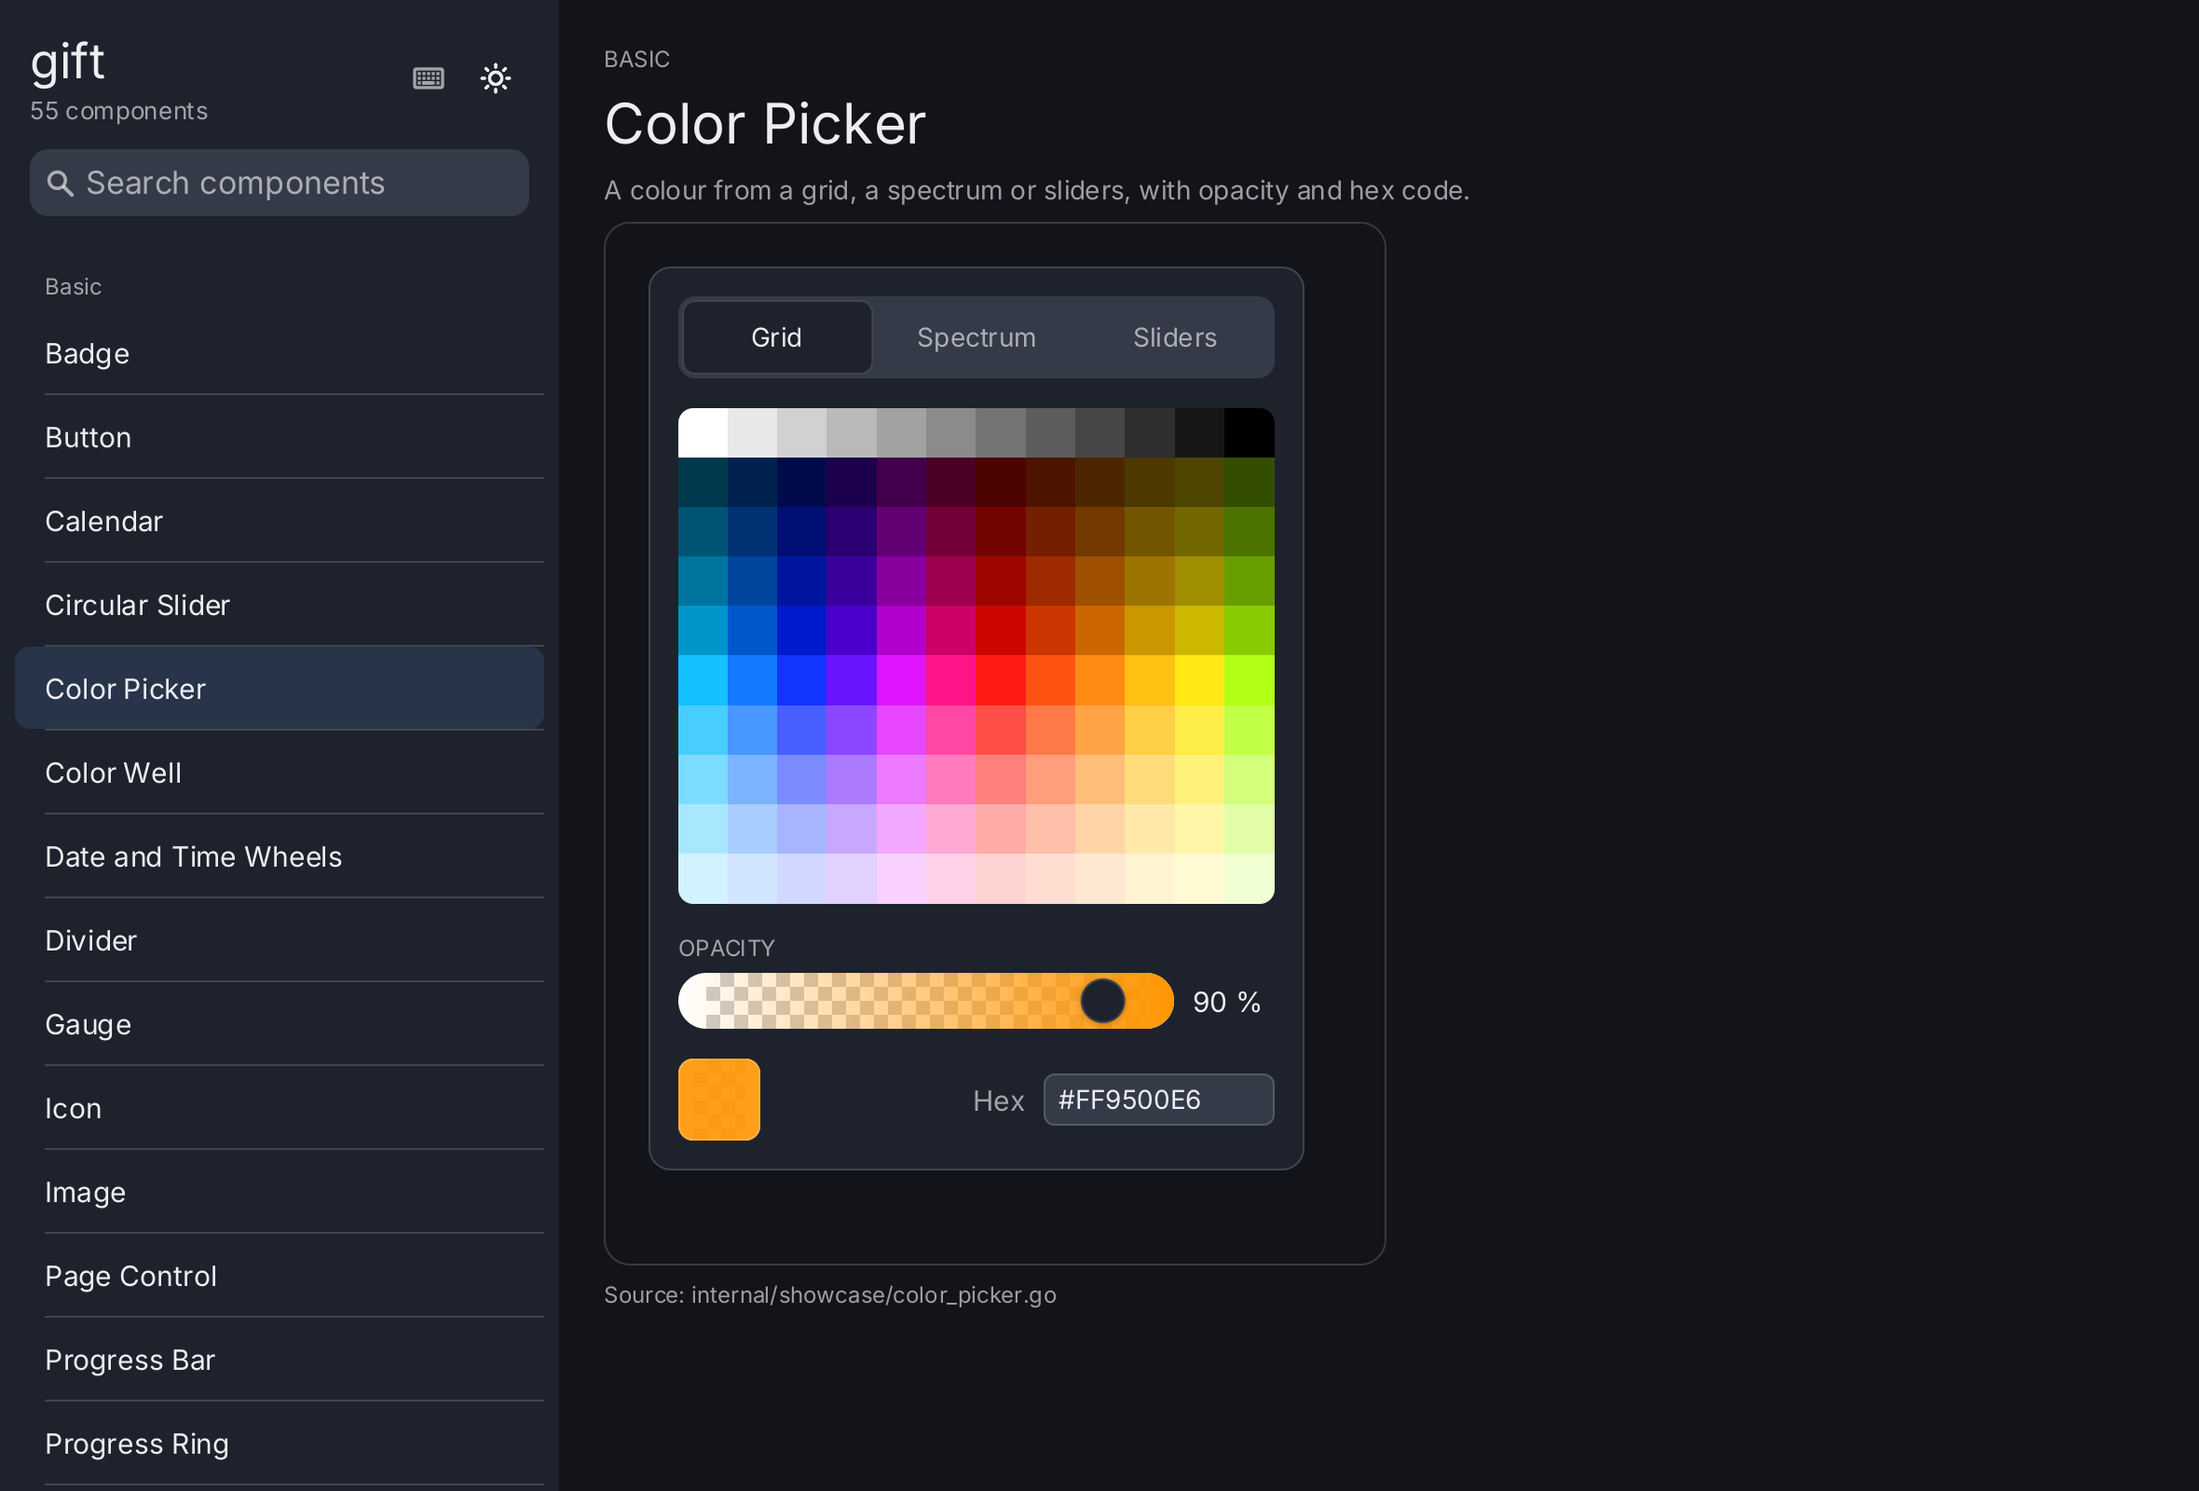
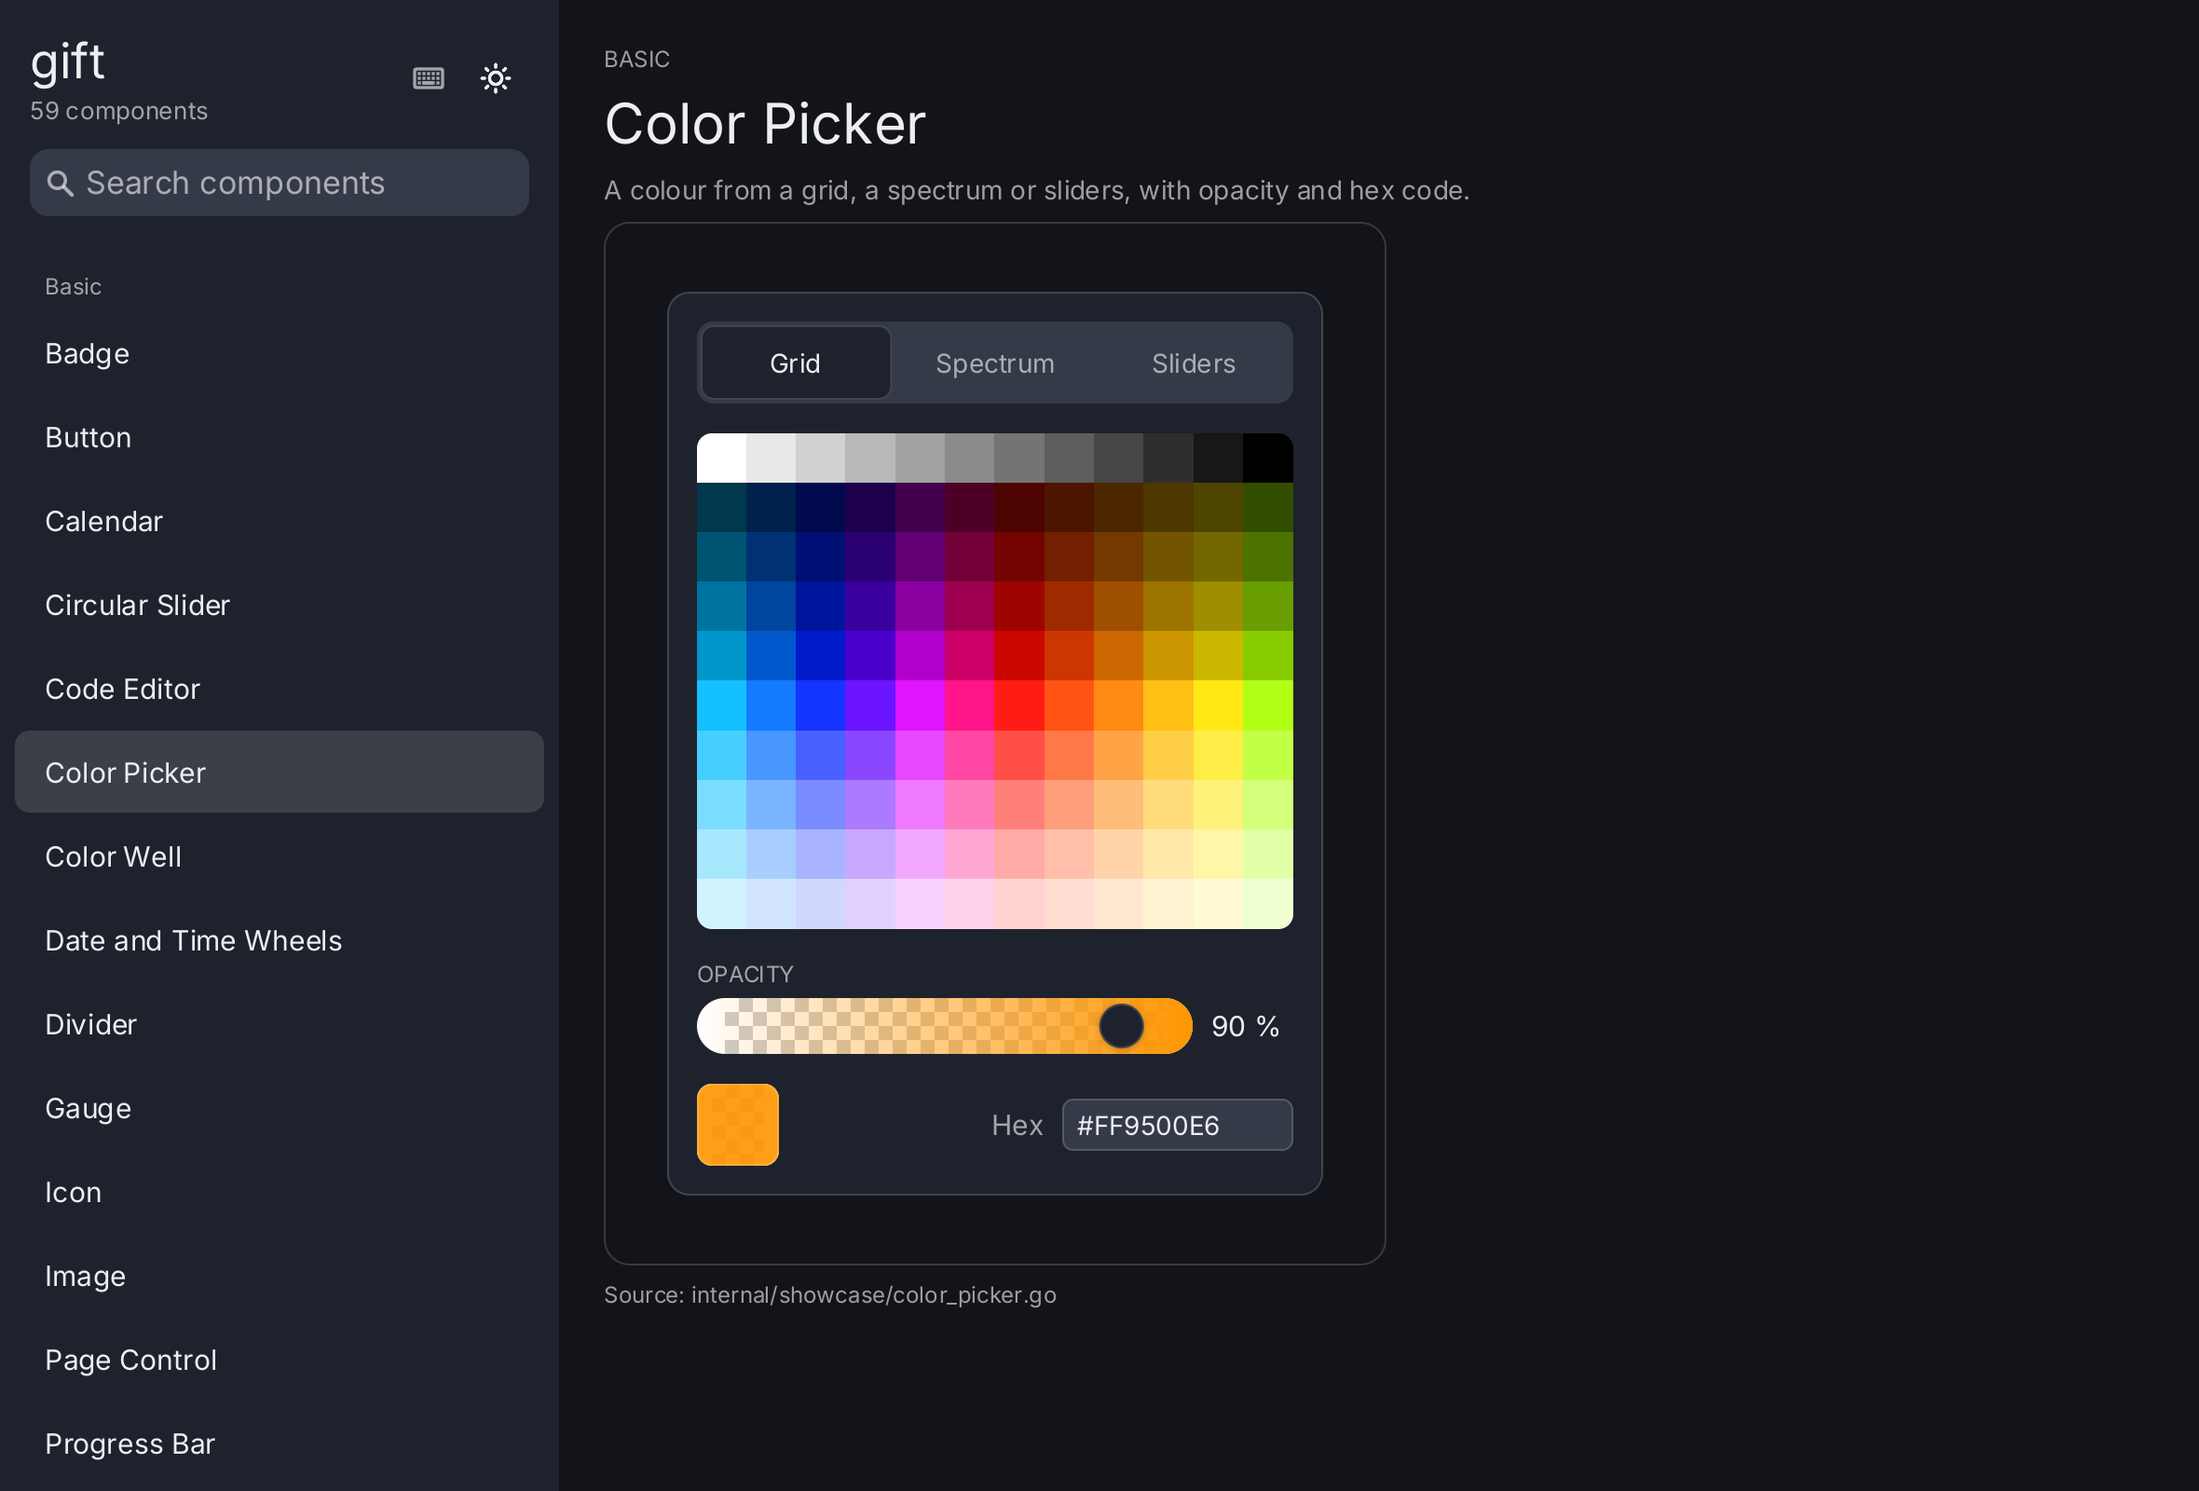
docs: the kiosk example gets its page with both layouts, and the kitchen sink a fresh picture
The examples list a page for example-kiosk: the settings of a simulated
Raspberry Pi beside the list as on a 7 inch panel, and the list alone as
on a 5 inch one, how to run it and what to try. The kiosk concept links
it.

- kiosk.Config has Width and Height for the window on a desktop, and the
  example has -width and -height, so the compact layout can be shown at
  the size of its panel.
- docs/capture takes more than one shot of an example, named by a prefix
  that the gallery-shot shortcode already knows.
- A giftauto build sets NoMouse under GIFT_CAPTURE, so a program that
  does not choose its own backend Config, as the kiosk, has no row
  hovered by the operator's cursor in its screenshots.
- The example keeps its state in a fresh directory under GIFT_CAPTURE.
- The kitchen sink is captured again, with all 59 components.

diff --git a/docs/capture/main.go b/docs/capture/main.go
@@ -17,6 +17,7 @@ package main
 
 import (
 	"bytes"
+	"cmp"
 	"context"
 	"encoding/json"
 	"errors"
@@ -64,6 +65,10 @@ type exampleShot struct {
 	Input string
 	// Settle is the number of frames to wait for pictures to arrive.
 	Settle int
+	// Prefix names the files, <Prefix>-light.png and <Prefix>-dark.png;
+	// screenshot if empty. A page with more than one shot of its example
+	// shows the others with the prefix of the gallery-shot shortcode.
+	Prefix string
 }
 
 var exampleShots = []exampleShot{
@@ -100,6 +105,24 @@ var exampleShots = []exampleShot{
 	// The document as it starts, set once the library is unpacked and the
 	// fonts are loaded.
 	{Name: "example-typst", Settle: 60},
+	// The settings of a simulated Raspberry Pi opened by the gear, in a
+	// window that has the size of a 7 inch panel, where they open on Wi-Fi
+	// beside the list, and in one of a 5 inch panel upright, where they
+	// open on the list; then the pointer leaves the buttons.
+	{Name: "example-kiosk", Args: []string{"-simulate", "-regular"}, Settle: 20, Input: `{"steps":[
+		{"op":"waitFrames","frames":4},
+		{"op":"tap","x":1080,"y":20},
+		{"op":"waitFrames","frames":40},
+		{"op":"pointerMove","x":700,"y":700},
+		{"op":"waitFrames","frames":4}
+	]}`},
+	{Name: "example-kiosk", Prefix: "compact", Args: []string{"-simulate", "-compact", "-width", "360", "-height", "640"}, Settle: 20, Input: `{"steps":[
+		{"op":"waitFrames","frames":4},
+		{"op":"tap","x":340,"y":20},
+		{"op":"waitFrames","frames":40},
+		{"op":"pointerMove","x":5,"y":630},
+		{"op":"waitFrames","frames":4}
+	]}`},
 	{Name: "example-video", Args: []string{"-sample", "-width", "800", "-height", "480", "-autohide", "0", "-loop=false"}, Settle: 20, Input: `{"steps":[
 		{"op":"waitFrames","frames":60},
 		{"op":"tap","x":400,"y":240},
@@ -144,7 +167,7 @@ func run() error {
 			continue
 		}
 		dir := filepath.Join(*site, "content", "docs", "components", d.Group, d.Name)
-		err := capture(gallery, []string{"-demo", d.Name}, d.Input, d.Settle, !d.FullWindow, dir)
+		err := capture(gallery, []string{"-demo", d.Name}, d.Input, d.Settle, !d.FullWindow, dir, "screenshot")
 		report(d.Name, err, &failed)
 	}
 
@@ -154,12 +177,14 @@ func run() error {
 				continue
 			}
 			bin := filepath.Join(tmp, e.Name)
-			if err := goBuild(bin, "./cmd/"+e.Name); err != nil {
-				return err
+			if _, err := os.Stat(bin); err != nil {
+				if err := goBuild(bin, "./cmd/"+e.Name); err != nil {
+					return err
+				}
 			}
 			dir := filepath.Join(*site, "content", "docs", "examples", e.Name)
-			err := capture(bin, e.Args, e.Input, e.Settle, false, dir)
-			report(e.Name, err, &failed)
+			err := capture(bin, e.Args, e.Input, e.Settle, false, dir, cmp.Or(e.Prefix, "screenshot"))
+			report(strings.TrimSpace(e.Name+" "+e.Prefix), err, &failed)
 		}
 	}
 	if len(failed) > 0 {
@@ -191,8 +216,8 @@ func goBuild(out, pkg string) error {
 }
 
 // capture starts bin, takes a light and a dark screenshot and writes them
-// into dir.
-func capture(bin string, args []string, input string, settle int, crop bool, dir string) error {
+// into dir as <prefix>-light.png and <prefix>-dark.png.
+func capture(bin string, args []string, input string, settle int, crop bool, dir, prefix string) error {
 	addr, err := freeAddr()
 	if err != nil {
 		return err
@@ -236,7 +261,7 @@ func capture(bin string, args []string, input string, settle int, crop bool, dir
 		if crop {
 			img = cropToContent(img, int(24*density))
 		}
-		if err := writePNG(filepath.Join(dir, "screenshot-"+mode+".png"), img); err != nil {
+		if err := writePNG(filepath.Join(dir, prefix+"-"+mode+".png"), img); err != nil {
 			return err
 		}
 	}

diff --git a/cmd/example-kiosk/main.go b/cmd/example-kiosk/main.go
@@ -11,13 +11,15 @@
 // to install it as the kiosk, after which the device starts into it full
 // screen, as root. -simulate pretends instead, on any system, and changes
 // nothing. -compact and -regular fix the layout of the settings, as on a
-// 5 inch and a 7 inch panel.
+// 5 inch and a 7 inch panel, and -width and -height give the window the
+// size of one.
 package main
 
 import (
 	"flag"
 	"fmt"
 	"os"
+	"path/filepath"
 	"time"
 
 	"github.com/worldiety/gift"
@@ -34,6 +36,8 @@ func main() {
 	compact := flag.Bool("compact", false, "lay the settings out as on a 5 inch panel")
 	regular := flag.Bool("regular", false, "lay the settings out as on a 7 inch panel")
 	pin := flag.String("pin", "", "a passcode set by the program, which protects the settings")
+	width := flag.Int("width", 0, "width of the window on a desktop, 1100 if 0")
+	height := flag.Int("height", 0, "height of the window on a desktop, 720 if 0")
 	flag.Parse()
 
 	if err := example.LoadFont(); err != nil {
@@ -45,6 +49,7 @@ func main() {
 		App:     workbench,
 		Updates: kiosk.Updates{System: true, Release: true},
 		PIN:     *pin,
+		Width:   *width, Height: *height,
 		Pages: []kiosk.Page{{
 			Title: "Counter", Icon: outline.ChartMixed, Protected: true,
 			View: counterSettings,
@@ -58,6 +63,13 @@ func main() {
 	}
 	if *simulate {
 		cfg.System = system.Simulated(300 * time.Millisecond)
+	}
+	// docs/capture sets GIFT_CAPTURE, so that a passcode or an appearance
+	// chosen in an earlier run does not end up in the screenshots. It ends
+	// the program by killing it, so the state is cleared before, not after.
+	if os.Getenv("GIFT_CAPTURE") != "" {
+		cfg.DataDir = filepath.Join(os.TempDir(), "example-kiosk-capture")
+		_ = os.RemoveAll(cfg.DataDir)
 	}
 	if err := kiosk.Run(cfg); err != nil {
 		fmt.Fprintln(os.Stderr, "example-kiosk:", err)

diff --git a/backend/ebiten/run.go b/backend/ebiten/run.go
@@ -6,6 +6,7 @@ import (
 
 	"log/slog"
 	"math"
+	"os"
 	"time"
 
 	eb "github.com/hajimehoshi/ebiten/v2"
@@ -305,7 +306,9 @@ type Config struct {
 	// through the automation interface: the mouse is polled every tick, so
 	// without it a hover shows wherever the operator's cursor happens to rest
 	// over the window, and a picture of an open menu has a highlighted row
-	// on one machine and none on the next.
+	// on one machine and none on the next. A build with the giftauto tag
+	// sets it when the environment has GIFT_CAPTURE, as docs/capture does,
+	// so a program that does not choose its own Config is covered too.
 	NoMouse bool
 
 	// NoInput disables the input bridge. It exists for a measurement run that
@@ -354,6 +357,9 @@ var Terminate = eb.Termination
 func Run(app *gift.App, cfg Config) error {
 	if app == nil {
 		panic("gift/backend/ebiten: Run with a nil App")
+	}
+	if autoEnabled && os.Getenv("GIFT_CAPTURE") != "" {
+		cfg.NoMouse = true
 	}
 	w, h := cfg.Width, cfg.Height
 	if w <= 0 {

diff --git a/kiosk/run.go b/kiosk/run.go
@@ -2,6 +2,7 @@ package kiosk
 
 import (
 	"bytes"
+	"cmp"
 	"context"
 	"errors"
 	"fmt"
@@ -55,8 +56,8 @@ func Run(cfg Config) error {
 	disp, _ := k.sys.Display(ctx)
 	cancel()
 
-	bc := backend.Config{Title: cfg.Title, Width: 1100, Height: 720, X11ClassName: cfg.Name, X11InstanceName: cfg.Name,
-		DrawOnDemand: true, IdleTPS: 30}
+	bc := backend.Config{Title: cfg.Title, Width: cmp.Or(cfg.Width, 1100), Height: cmp.Or(cfg.Height, 720),
+		X11ClassName: cfg.Name, X11InstanceName: cfg.Name, DrawOnDemand: true, IdleTPS: 30}
 	// A simulated system only pretends to be the kiosk; the program runs in
 	// a window like any other.
 	if st.Kiosk && k.sys.Platform().Kind != system.SimulatedKind {

diff --git a/kiosk/kiosk.go b/kiosk/kiosk.go
@@ -50,6 +50,11 @@ type Config struct {
 	// Entry is how the settings are opened from the program.
 	Entry Entry
 
+	// Width and Height are the size of the window on a desktop in logical
+	// pixels, 1100 by 720 if zero; as the kiosk of its device the program
+	// fills the screen.
+	Width, Height int
+
 	// DataDir is where the kiosk keeps its state: /var/lib/<Name> as root,
 	// the user's configuration directory otherwise.
 	DataDir string

diff --git a/docs/gift.dev/content/docs/examples/example-kiosk/index.md b/docs/gift.dev/content/docs/examples/example-kiosk/index.md
@@ -1,0 +1,55 @@
+---
+title: Kiosk
+weight: 8
+---
+
+This example is a gift program as the operating system of its device, built on package
+[`kiosk`](https://pkg.go.dev/github.com/worldiety/gift/kiosk): a counter of finished workpieces for a workbench,
+and the settings of the device after those of iOS and iPadOS. The gear in the top right corner of the counter
+opens them: Wi-Fi, Ethernet with fixed addresses, the display, a passcode, General with software updates, storage,
+date and time and the startup, and a page of the program itself, which sets the goal of a shift.
+
+{{< gallery-shot alt="The settings of a simulated Raspberry Pi called Werkbank: on the left a list with the device, Wi-Fi, Ethernet, General, Display, Passcode and Counter, on the right the Wi-Fi page with the joined network Werkstatt and four more networks with their signal strength" >}}
+
+The window above has the size of a 7 inch panel, where the list stands beside the page, as on an iPad. On a
+5 inch panel the settings take the layout of an iPhone: the list, and each page pushed onto it.
+
+{{< gallery-shot prefix="compact" alt="The same settings on a 5 inch panel held upright: the list alone, under a bar with the title Settings and a Done button, each row with a chevron" >}}
+
+## Run it
+
+From a checkout of the [repository](https://github.com/worldiety/gift):
+
+```bash
+go run ./cmd/example-kiosk -simulate                                 # a simulated Raspberry Pi, on any machine
+go run ./cmd/example-kiosk -simulate -compact -width 360 -height 640 # as on a 5 inch panel, upright
+go run ./cmd/example-kiosk -simulate -pin 2580                       # with a passcode set by the program
+go run ./cmd/example-kiosk                                           # the system it runs on
+```
+
+With `-simulate` the settings show a Raspberry Pi 5 that only pretends: networks to join, updates to install and a
+startup to switch, with nothing changed on your machine. Without it they show the system the program runs on:
+macOS read only, and the desktop of Raspberry Pi OS or Ubuntu without root, where **General → Startup → Install as
+Kiosk** makes the program the kiosk of the device, as
+[No install scripts](../../concepts/kiosks/#no-install-scripts) describes.
+
+`-compact` and `-regular` fix the layout; without them the width of the window decides, at 680 logical pixels.
+`-width` and `-height` set the size of the window. The settings keep what is set in them, a passcode for instance,
+in the directory `werkbank` of the user's configuration directory; **General → About** shows where.
+
+## What to try
+
+- Tap a network in **Wi-Fi**. *Halle 2* asks for a password, and the simulation takes any of eight characters or
+  more; *Gast* is open, and *Lager* is known and joins without one.
+- Open the interface in **Ethernet** and set its IPv4 address to *Manual*, with an address, a subnet mask and a
+  router, as in the network of a building's automation. *Apply* asks whether to keep the settings, and they come
+  back by themselves after a minute unless you do.
+- **General → Software Update** lists the packages of a simulated upgrade and installs them with their progress.
+- **General → Startup** switches what the device starts into, the kiosk or the desktop.
+- Set a passcode in **Passcode** and choose what it protects. *Werkbank* is the page of the program, **Counter**,
+  whose stepper sets the goal the counter shows. Four wrong attempts make it wait a minute.
+- **Display** switches between the light and the dark appearance.
+
+## Code
+
+{{< example-code >}}

diff --git a/docs/gift.dev/content/docs/concepts/kiosks.md b/docs/gift.dev/content/docs/concepts/kiosks.md
@@ -280,7 +280,8 @@ err := kiosk.Run(kiosk.Config{
 ```
 
 `kiosk.Run` opens the window and returns when it closes. A small gear in the top right corner opens the
-settings; `Config.Entry` hides it behind five taps in a corner, or leaves opening them to the program.
+settings; `Config.Entry` hides it behind five taps in a corner, or leaves opening them to the program. The
+[kiosk example](../../examples/example-kiosk/) is this program, with screenshots of both layouts.
 
 ### No install scripts
 
@@ -348,5 +349,5 @@ the count.
   [example-effects](../../examples/example-effects/) for glass quality levels
 - [`backend/ebiten` on pkg.go.dev](https://pkg.go.dev/github.com/worldiety/gift/backend/ebiten#Config) for every
   field of `Config`
-- [`cmd/example-kiosk`](https://github.com/worldiety/gift/tree/main/cmd/example-kiosk), a counter for a workbench
-  with the settings of its device; `-simulate` runs it on any machine
+- [example-kiosk](../../examples/example-kiosk/), a counter for a workbench with the settings of its device;
+  `-simulate` runs it on any machine

diff --git a/docs/gift.dev/content/docs/examples/_index.md b/docs/gift.dev/content/docs/examples/_index.md
@@ -17,6 +17,7 @@ source code.
   {{< card link="example-photos/" title="Photos" image="example-photos/screenshot-light.png" subtitle="A gallery of large photos and a full screen viewer to swipe, pinch and drag away." >}}
   {{< card link="example-video/" title="Video" image="example-video/screenshot-light.png" subtitle="A video with sound and touch controls, sized for a five inch panel." >}}
   {{< card link="example-typst/" title="Typst" image="example-typst/screenshot-light.png" subtitle="A document set by Typst, edited in its source and on its pages, and saved as a PDF." >}}
+  {{< card link="example-kiosk/" title="Kiosk" image="example-kiosk/screenshot-light.png" subtitle="A program as the operating system of its device, with Wi-Fi, Ethernet, updates and a passcode in settings after iOS." >}}
 {{< /cards >}}
 
 ## Run an example
